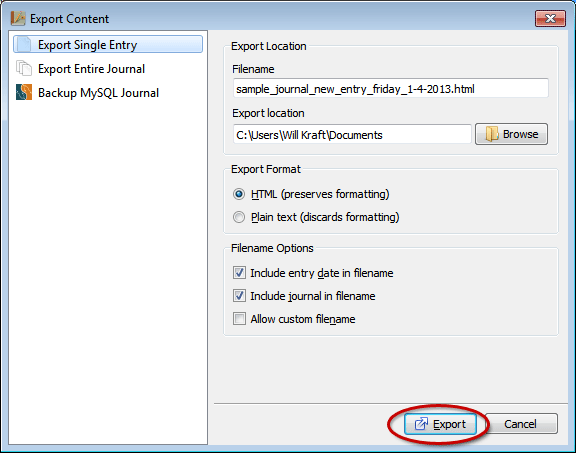
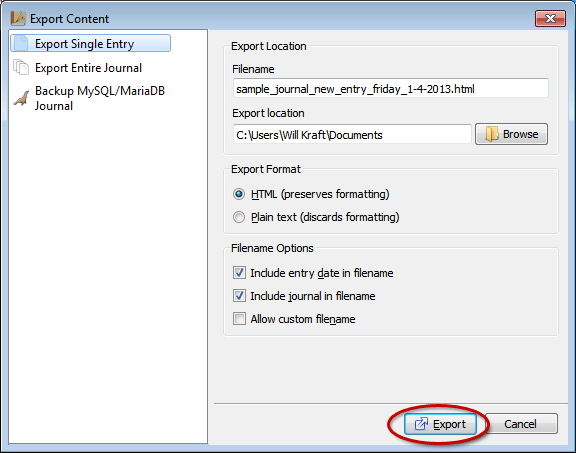
made changes to documentation pictures

Changed region(s): [[0.0, 0.0618, 0.375, 0.2472], [0.0312, 0.9581, 0.3438, 0.989]]

diff --git a/doc/export.html b/doc/export.html
@@ -12,7 +12,7 @@
   <title>Exporting Journal Entries - RoboJournal
   Documentation</title>
   <meta name="author" content="Will Kraft" >
-  <meta name="date" content="2014-06-22T15:57:05-0600" >
+  <meta name="date" content="2014-06-29T11:41:21-0600" >
   <meta http-equiv="content-type" content=
   "text/html; charset=us-ascii">
   <meta http-equiv="content-style-type" content="text/css">
@@ -337,12 +337,12 @@
 
             <td class="right">
               The Export Format options determine which type of
-              file(s() are created during the export operation. The
+              file(s) are created during the export operation. The
               <strong>HTML</strong> option produces HTML4-compliant
-              document(s) that are viewable in any web browser. The
+              documents that are viewable in any web browser. The
               <strong>Plain text</strong> option produces text
-              file(s) that are compatible with any text editor
-              (e.g. Vim, Notepad, Emacs, etc.).
+              files that are compatible with any text editor (e.g.
+              Vim, Notepad, Emacs, etc.).
 
               <p>For best results, you should use HTML output
               because it preserves all document formatting (bold,
@@ -469,20 +469,21 @@
         display the Export Content window. For this procedure, it
         does not matter which entry you choose from the list.</li>
 
-        <li>Click the <strong>Backup MySQL Journal</strong> list
-        item on the left side of the Export Content window to
+        <li>Click the <strong>Backup MySQL/MariaDB Journal</strong>
+        list item on the left side of the Export Content window to
         display the backup-related options (Figure 5): <img style=
         "width: 576px; height: 453px;" class="screenshot" alt=
         "Figure x" title="Figure x" src=
         "img/screens/export_dump.png"><span class="caption">Figure
-        5: The "Backup MySQL Journal" page provides an easy-to-use
-        interface for MySQLDump.</span></li>
+        5: The "Backup MySQL/MariaDB Journal" page provides an
+        easy-to-use interface for MySQLDump.</span></li>
 
         <li>Make all necessary changes. The default settings
         produce a .sql file bearing the journal name and the export
-        date (i.e. sample_journal_09-04-2013)&nbsp; that is saved
-        in your home folder's Documents sub-directory ("My
-        Documents" on Windows XP and older).</li>
+        date (i.e. sample_journal_09-04-2013.sql)&nbsp; that is
+        saved in your home folder/profile's "Documents"
+        sub-directory ("My Documents" on Windows XP and
+        older).</li>
 
         <li>Click the <strong>Export</strong> button to begin the
         operation: <img alt="Figure 6" src=

diff --git a/doc/css/master.css b/doc/css/master.css
@@ -3,6 +3,8 @@ body{
 	margin-left: 0px;
 	margin-top: 2px;
 	margin-right: 0px;
+	font-family: Constantia, Georgia, Freeserif, "Lucida Bright", Lucidabright, "Lucida Serif", Lucida, "DejaVu Serif", "Bitstream Vera Serif", "Liberation Serif",  serif;
+	overflow-x:hidden;
 }
 	
 .content{
@@ -230,16 +232,16 @@ p{
 }
 
 .FYI{
-        border-top: solid 2px #A0A69E;
-	border-bottom: solid 2px #A0A69E;
-        padding: 10px;
-        margin-left: auto;
-        margin-right: auto;
-        width: 80%;
-        font-size: 17px;
-        font-family: "Segoe UI", Candara, Freesans, "Bitstream Vera Sans", "DejaVu Sans", "Bitstream Vera Sans", "Trebuchet MS", Verdana, "Verdana Ref", sans-serif;
-        margin-top: 40px;
-        margin-bottom: 40px;
+	  border-top: solid 2px #A0A69E;
+	  border-bottom: solid 2px #A0A69E;
+	  padding: 10px;
+	  margin-left: auto;
+	  margin-right: auto;
+	  width: 80%;
+	  font-size: 17px;
+	  font-family: "Segoe UI", Candara, Freesans, "Bitstream Vera Sans", "DejaVu Sans", "Bitstream Vera Sans", "Trebuchet MS", Verdana, "Verdana Ref", sans-serif;
+	  margin-top: 40px;
+	  margin-bottom: 40px;
         
 }
 
@@ -457,7 +459,8 @@ p.copyright{
 }
 
 .masthead{
-	margin-left: 20px;
+	position: relative;
+	left: 20px;
 }
 
 .doc_version{
@@ -467,7 +470,8 @@ p.copyright{
 	text-align: left;
 	margin-top: -30px;
 	margin-bottom: 0px;
-	margin-left: 100px;
 	position: absolute;
-	z-index: 1
+	float: left;
+	left: 100px;
+	z-index: 999;
 }

diff --git a/doc/fundamentals.html b/doc/fundamentals.html
@@ -12,7 +12,7 @@
   <title>RoboJournal Fundamentals - RoboJournal
   Documentation</title>
   <meta name="author" content="Will Kraft" >
-  <meta name="date" content="2014-06-22T15:57:05-0600" >
+  <meta name="date" content="2014-06-29T11:44:57-0600" >
   <meta http-equiv="content-type" content=
   "text/html; charset=us-ascii">
   <meta http-equiv="content-style-type" content="text/css">
@@ -762,12 +762,13 @@
 
       <p>RoboJournal's delete function provides a way to easily
       remove the current entry from the database. You should always
-      exercise caution when using this feature because delete
-      operations are <em>permanent</em>. The only way to undo an
+      exercise caution when using this feature because all
+      deletions are <em>permanent</em>. The only way to undo an
       accidental deletion is by restoring a backup of the journal
       that contains the lost data (recovery is impossible if no
-      such backup exists). You should back up your journal on a
-      regular basis for this reason alone.</p>
+      such backup exists). You should <a href=
+      "export.html#L370">back up your journal</a> on a regular
+      basis for this reason alone.</p>
 
       <ol class="list">
         <li>Select the entry to be deleted by clicking its node in

diff --git a/doc/faq.html b/doc/faq.html
@@ -12,7 +12,7 @@
   <title>Frequently Asked Questions - RoboJournal
   Documentation</title>
   <meta name="author" content="Will Kraft" >
-  <meta name="date" content="2014-06-22T15:57:05-0600" >
+  <meta name="date" content="2014-06-29T12:13:15-0600" >
   <meta http-equiv="content-type" content=
   "text/html; charset=us-ascii">
   <meta http-equiv="content-style-type" content="text/css">
@@ -121,7 +121,7 @@
 
       <p><em>Will Kraft's answer:</em><br>
       <br>
-      I have actually been planning to release RoboJournal 0.4.1 on
+      I have actually been planning to release RoboJournal 0.5 on
       Mac OS X as soon as I can. The reason why I haven't done it
       for earlier versions is because I don't have a Mac of my own;
       under the circumstances there has been no way for me to build
